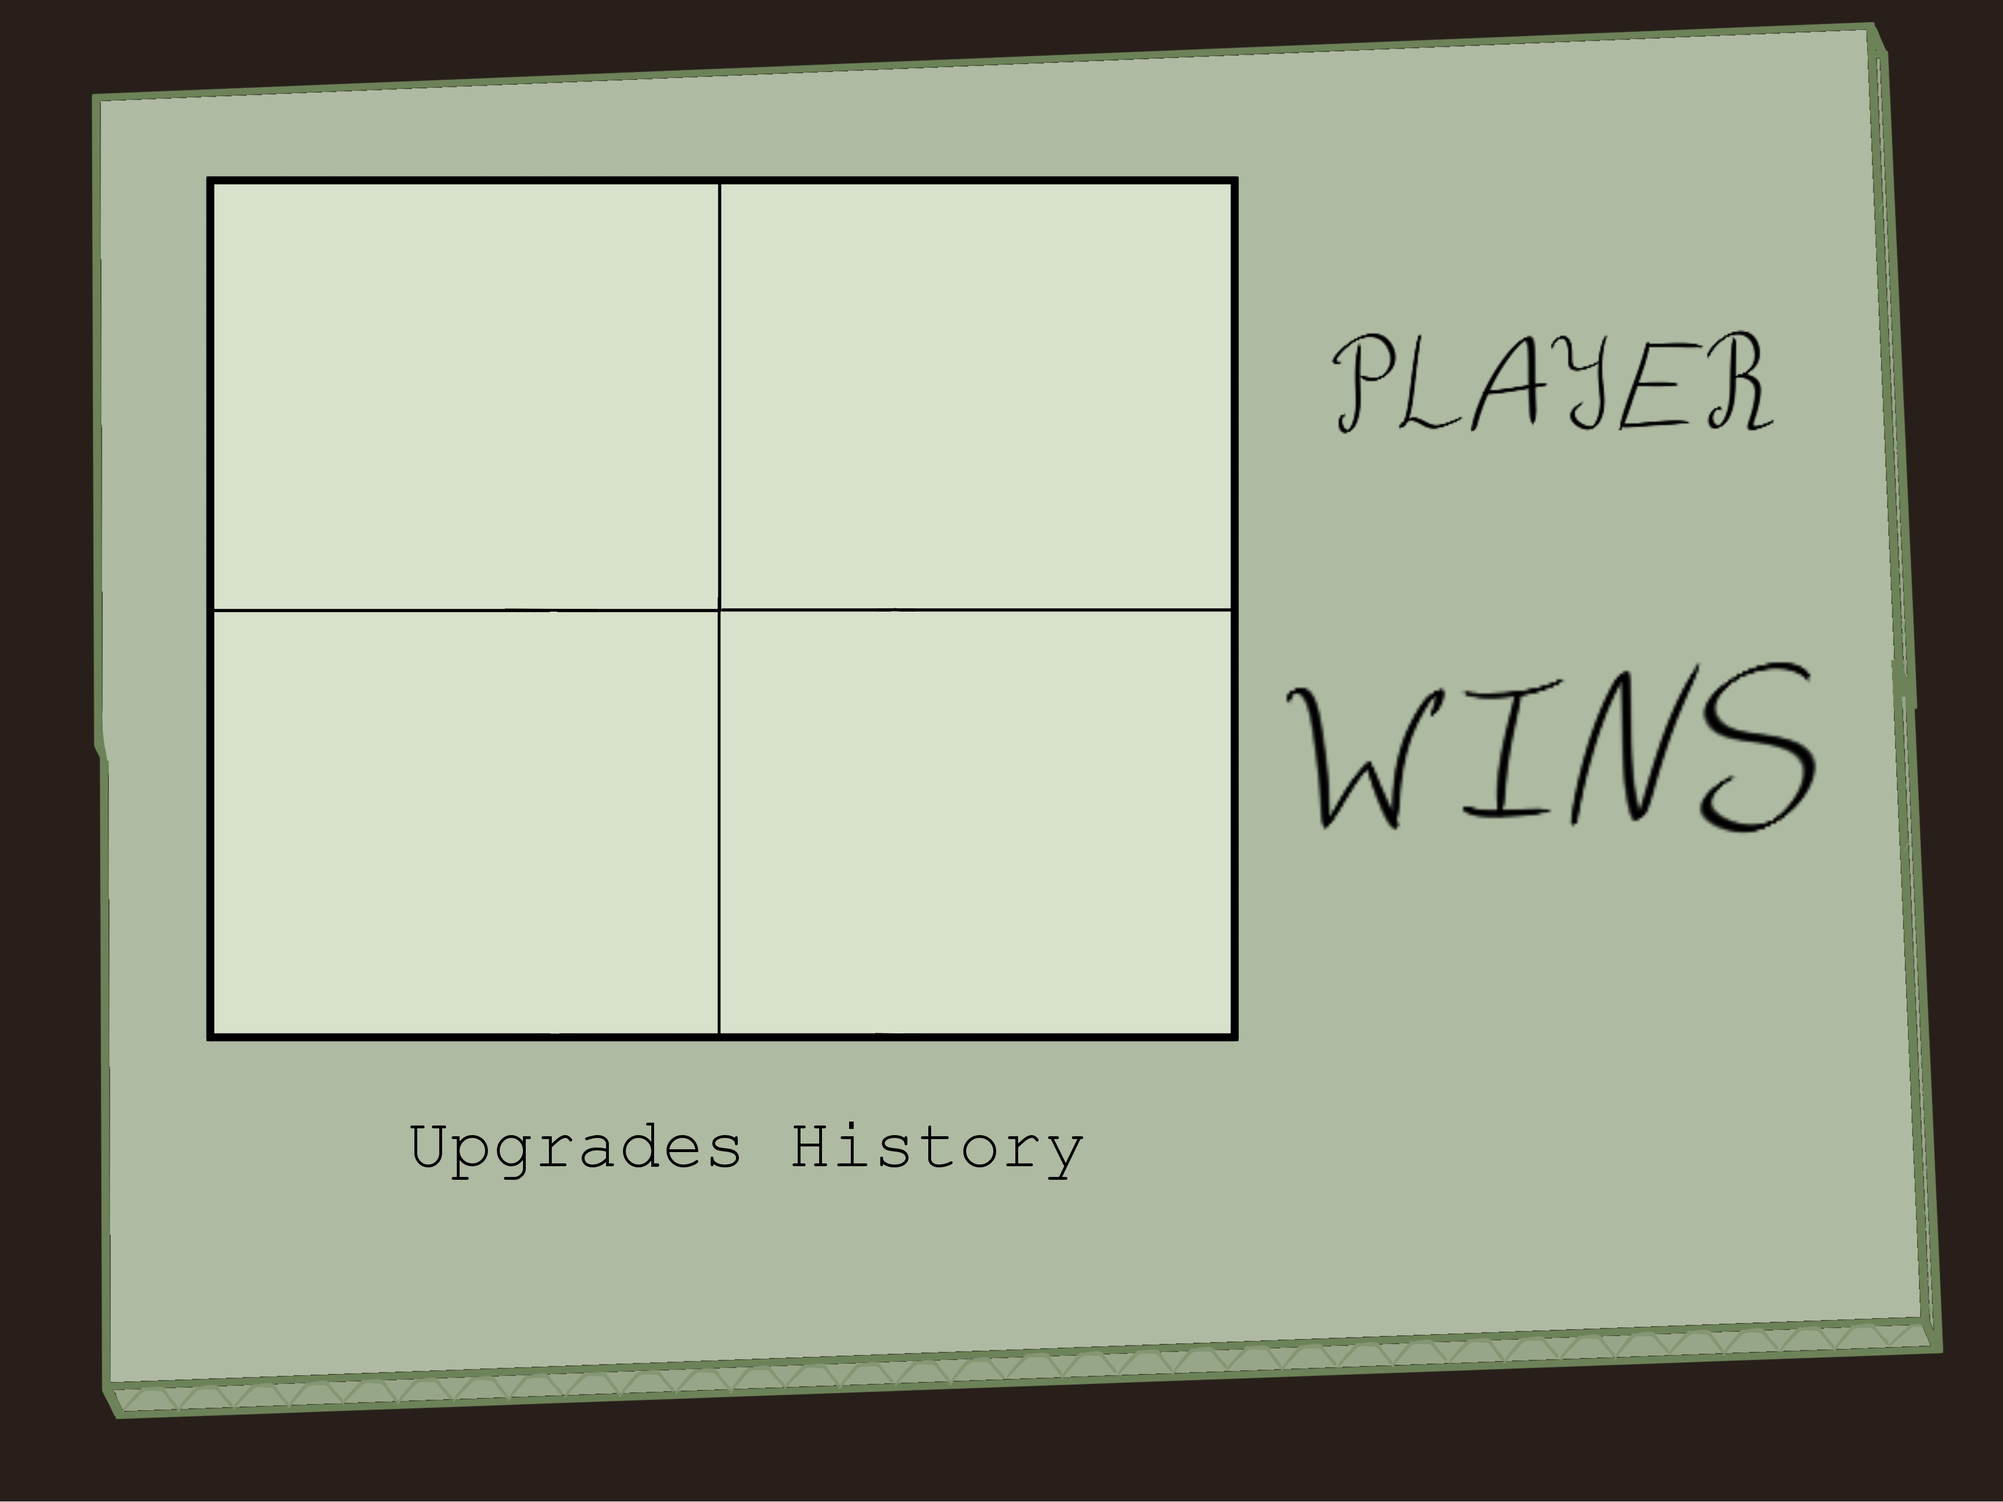
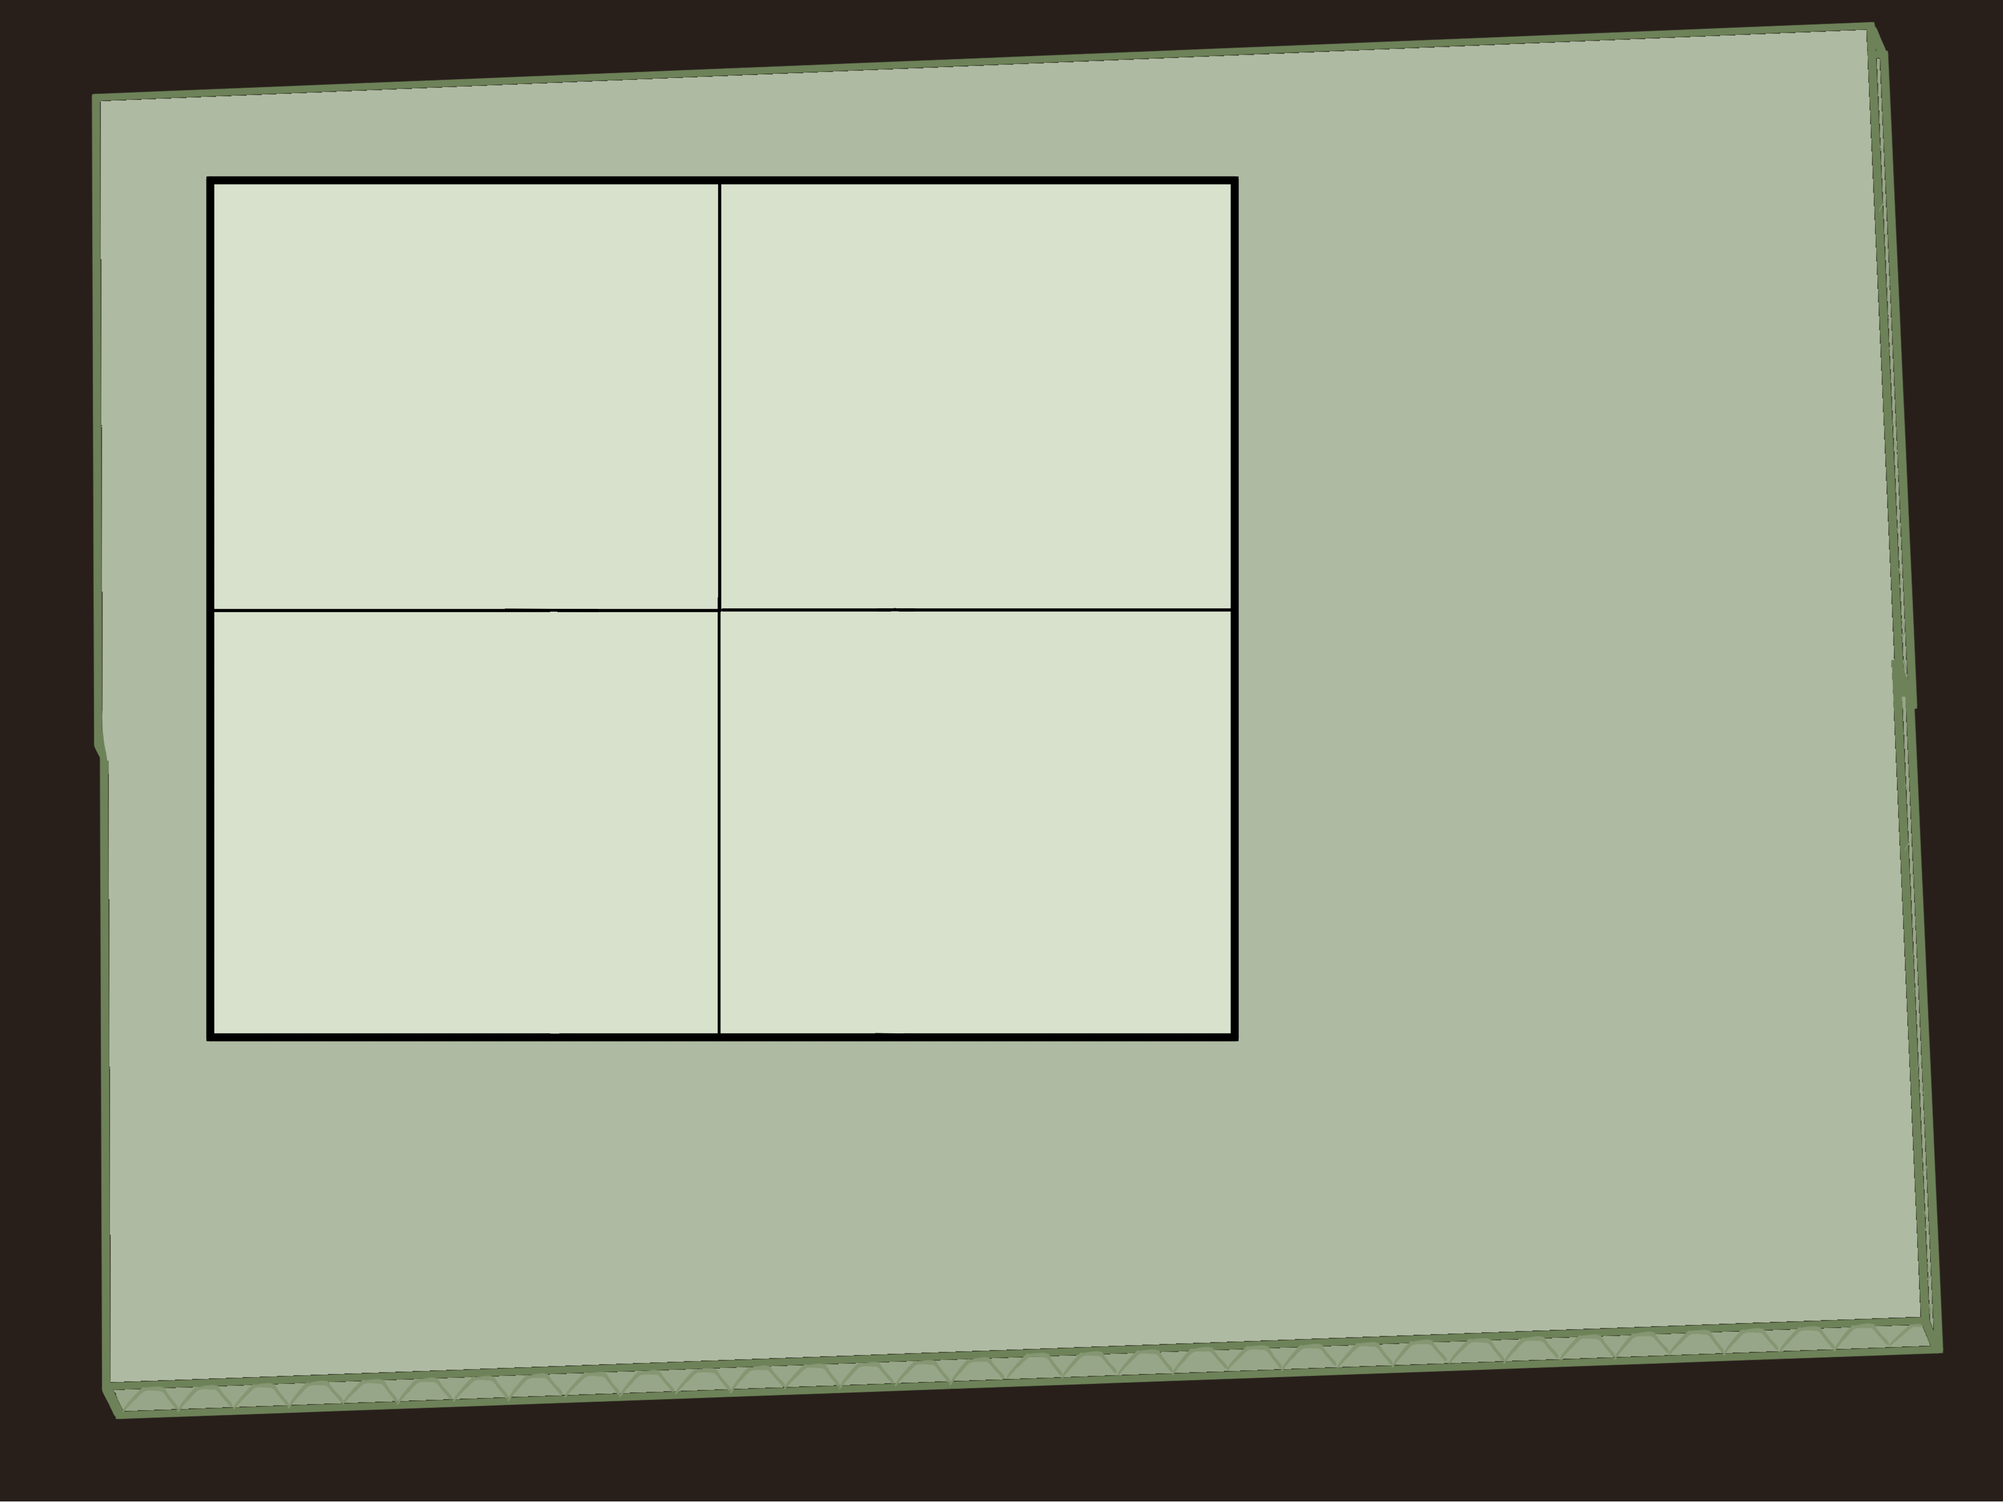
Euskera, tutorial, credits, victory changed

diff --git a/hanabi_tanks/src/main/resources/static/javaScript/Scenes/Victory.js b/hanabi_tanks/src/main/resources/static/javaScript/Scenes/Victory.js
@@ -1,5 +1,54 @@
 class Victory extends Phaser.Scene
 {
+    textsScale =
+    {
+        "BackButton": 0.32,
+        "PlayerText": 0.8,
+        "HistoryText": 0.8
+    }
+    
+    texts = 
+    {
+        "BackButton":
+        { 
+            pos: { x: 0.17, y: 0.94 },
+            center: { x: 0, y: 0.5 },
+            rotation: Phaser.Math.DegToRad(0),
+            style: 
+            {
+                fontFamily: font,
+                fontSize: String(WINDOW.HEIGHT * this.textsScale["BackButton"] / textDivider) + "px",
+                //fontStyle: styleOptions.fontStyle.bold,
+                color: blackColor
+            } 
+        },
+        "PlayerText":
+        { 
+            pos: { x: 0.2, y: 0.35 },
+            center: { x: 0, y: 0.5 },
+            rotation: Phaser.Math.DegToRad(0),
+            style: 
+            {
+                fontFamily: font,
+                fontSize: String(WINDOW.HEIGHT * this.textsScale["PlayerText"] / textDivider) + "px",
+                //fontStyle: styleOptions.fontStyle.bold,
+                color: blackColor
+            } 
+        },
+        "HistoryText":
+        { 
+            pos: { x: 0.3, y: 0.8 },
+            center: { x: 0.5, y: 0.5 },
+            rotation: Phaser.Math.DegToRad(0),
+            style: 
+            {
+                fontFamily: font,
+                fontSize: String(WINDOW.HEIGHT * this.textsScale["HistoryText"] / textDivider) + "px",
+                //fontStyle: styleOptions.fontStyle.bold,
+                color: blackColor
+            } 
+        }
+    }
     constructor() 
     {
         super({ key: 'Victory' });
@@ -26,22 +75,44 @@ class Victory extends Phaser.Scene
     {
         WebFont.load({
             custom: {
-              families: ['FontChild'], 
-              urls: ['../../css/styles.css']
+                families: ['FontChild'], 
+                urls: ['../../css/styles.css']
             },
             active: () => {
-              console.log("Font Loaded");
+                console.log("Font Loaded");
+                this.textsGroup = {};
+                Object.keys(this.texts).forEach((key) =>
+                {
+                    this.textsGroup[key] = this.add.text(this.texts[key].pos.x * WINDOW.WIDHT, this.texts[key].pos.y * WINDOW.HEIGHT, LanguageManager.getInstance().getText("Credits", key), this.texts[key].style);
+                    this.textsGroup[key].setOrigin(this.texts[key].center.x, this.texts[key].center.y);
+                    this.textsGroup[key].rotation = this.texts[key].rotation;
+                    //Scaler.ScaleToGameW(this.textsGroup[key], texts[key].scale / 7.0)
+                });
+                LanguageManager.getInstance().onLanguageChanged("Victory", () =>
+                {
+                    Object.keys(this.textsGroup).forEach((key) =>
+                    {
+                        this.textsGroup[key].text = LanguageManager.getInstance().getText("Victory", key);
+                    });
+                });
+    
+                this.events.once("shutdown", () =>
+                {
+                    LanguageManager.getInstance().desubscribe("Victory");
+                });
             }
-          });
+        });
           
         AudioManager.Instance.SetActiveScene(this, false);
 
         const victory = this.add.image(WINDOW.WIDHT/2, WINDOW.HEIGHT/2, "VictoryBackground");
         Scaler.ScaleToGameH(victory);
 
-        const back = this.add.image(WINDOW.WIDHT/6, (WINDOW.HEIGHT * 14)/15, "BackButton");
-        Scaler.ScaleToGameW(back, 0.32);
-        back.setInteractive().on("pointerdown", this.OnClickOnButton.bind(this, back))
+        const back = this.add.image(this.texts["BackButton"].pos.x * WINDOW.WIDHT, this.texts["BackButton"].pos.y * WINDOW.HEIGHT, "BackButton")
+        Scaler.ScaleToGameW(back, this.textsScale["BackButton"]);
+        back.setInteractive().on("pointerdown", this.OnClickOnButton.bind(this, back));
+        back.setInteractive().on("pointerover", this.OnPointerEnter.bind(this));
+        back.setInteractive().on("pointerout", this.OnPointerExit.bind(this));
         
         this.input.keyboard.on("keydown", this.OnKeyPressed.bind(this));
         
@@ -81,6 +152,18 @@ class Victory extends Phaser.Scene
             return;
         let powerUp4 = this.add.sprite(WINDOW.WIDHT * 0.48546, WINDOW.HEIGHT * 0.54949, "PowerUps", powerUps[3]);
         Scaler.ScaleToGameH(powerUp4, 0.12043*2.8);
+    }
+
+    OnPointerEnter()
+    {
+        console.log("Pointer Enter");
+        AudioManager.Instance.PlayOneShoot("EnterButton", "SFX");
+    }
+
+    OnPointerExit()
+    {
+        console.log("Pointer Exit");
+        AudioManager.Instance.PlayOneShoot("ExitButton", "SFX");
     }
 
     OnKeyPressed(key)

diff --git a/hanabi_tanks/src/main/resources/static/javaScript/Scenes/Tutorial.js b/hanabi_tanks/src/main/resources/static/javaScript/Scenes/Tutorial.js
@@ -1,0 +1,138 @@
+class Tutorial extends Phaser.Scene
+{
+    textsScale =
+    {
+        "BackButton": 0.32
+    }
+    
+    texts = 
+    {
+        "BackButton":
+        { 
+            pos: { x: 0.17, y: 0.94 },
+            center: { x: 0.5, y: 0.5 },
+            rotation: Phaser.Math.DegToRad(0),
+            style: 
+            {
+                fontFamily: font,
+                fontSize: String(WINDOW.HEIGHT * this.textsScale["BackButton"] / textDivider) + "px",
+                //fontStyle: styleOptions.fontStyle.bold,
+                color: blackColor
+            } 
+        }
+    }
+    constructor() 
+    {
+        super({ key: 'Tutorial' });
+        this.lastScene;
+    }
+
+    init(data)
+    {
+        this.lastScene = data.scene;
+    }
+
+    preload() 
+    {
+        this.load.script("webfont", "https://cdnjs.cloudflare.com/ajax/libs/webfont/1.6.28/webfontloader.js");
+
+        this.load.image("TutorialBackground", "../assets/UI/Screens/template.png");
+        this.load.image("MainMenuButton", "../assets/UI/Buttons/mainMenu.png")
+    }
+
+    create() 
+    {
+        WebFont.load({
+            custom: {
+                families: ['FontChild'], 
+                urls: ['../../css/styles.css']
+            },
+            active: () => {
+                console.log("Font Loaded");
+                this.textsGroup = {};
+                Object.keys(this.texts).forEach((key) =>
+                {
+                    this.textsGroup[key] = this.add.text(this.texts[key].pos.x * WINDOW.WIDHT, this.texts[key].pos.y * WINDOW.HEIGHT, LanguageManager.getInstance().getText("Credits", key), this.texts[key].style);
+                    this.textsGroup[key].setOrigin(this.texts[key].center.x, this.texts[key].center.y);
+                    this.textsGroup[key].rotation = this.texts[key].rotation;
+                    //Scaler.ScaleToGameW(this.textsGroup[key], texts[key].scale / 7.0)
+                });
+                LanguageManager.getInstance().onLanguageChanged("Tutorial", () =>
+                {
+                    Object.keys(this.textsGroup).forEach((key) =>
+                    {
+                        this.textsGroup[key].text = LanguageManager.getInstance().getText("Tutorial", key);
+                    });
+                });
+    
+                this.events.once("shutdown", () =>
+                {
+                    LanguageManager.getInstance().desubscribe("Tutorial");
+                });
+            }
+        });
+          
+        AudioManager.Instance.SetActiveScene(this, false);
+
+        const background = this.add.image(WINDOW.WIDHT/2, WINDOW.HEIGHT/2, "TutorialBackground");
+        Scaler.ScaleToGameW(background);
+
+        const back = this.add.image(this.texts["BackButton"].pos.x * WINDOW.WIDHT, this.texts["BackButton"].pos.y * WINDOW.HEIGHT, "BackButton");
+        Scaler.ScaleToGameW(back, this.textsScale["BackButton"]);
+        back.setInteractive().on("pointerdown", this.OnClickOnButton.bind(this, back));
+        back.setInteractive().on("pointerover", this.OnPointerEnter.bind(this));
+        back.setInteractive().on("pointerout", this.OnPointerExit.bind(this));
+
+        this.input.keyboard.on("keydown", this.OnKeyPressed.bind(this));
+    }
+
+    OnPointerEnter()
+    {
+        console.log("Pointer Enter");
+        AudioManager.Instance.PlayOneShoot("EnterButton", "SFX");
+    }
+
+    OnPointerExit()
+    {
+        console.log("Pointer Exit");
+        AudioManager.Instance.PlayOneShoot("ExitButton", "SFX");
+    }
+
+    OnKeyPressed(key)
+    {
+        switch(key.keyCode)
+        {
+            case Phaser.Input.Keyboard.KeyCodes.ESC:
+                AudioManager.Instance.PlayOneShoot("ChangeMenu", "SFX");
+                this.scene.stop("Tutorial");
+                this.scene.start("MainMenu");
+                break;
+            default:
+                console.log("ERROR_UNKNOWN_KEY_PRESSED: " + key.keyCode);
+                break;
+        }
+    }
+
+    OnClickOnButton(button)
+    {
+        console.log("boton pulsado = " + button.texture.key + " " + this.lastScene);
+        
+        switch(button.texture.key)
+        {
+            case "BackButton":
+                AudioManager.Instance.PlayOneShoot("ChangeMenu", "SFX");
+                this.scene.stop("Tutorial");
+                this.scene.start("MainMenu");
+                break;            
+            default:
+                console.log("ERROR_IN_CLICK_BUTTON: UNKNOWN_BUTTON_KEY: " + button.texture.key);
+                break;
+        }
+    }
+
+    update() 
+    {
+
+    }
+
+}

diff --git a/hanabi_tanks/src/main/resources/static/javaScript/Scenes/Pause.js b/hanabi_tanks/src/main/resources/static/javaScript/Scenes/Pause.js
@@ -1,5 +1,52 @@
 class Pause extends Phaser.Scene
 {
+    textsScale = 
+    {
+        "BackButton": 0.32,
+        "OptionsButton": 0.32,
+        "MainMenuButton": 0.32,
+        
+    }
+
+    texts = {
+        "BackButton":
+        {
+            pos: { x: 0.17, y: 0.94 },
+            center: { x: 0.5, y: 0.5 },
+            rotation: Phaser.Math.DegToRad(0),
+            style: 
+            {
+                fontFamily: font,
+                fontSize: String(WINDOW.HEIGHT * this.textsScale["BackButton"] / textDivider) + "px",                
+                color: blackColor
+            } 
+        },
+        "OptionsButton":
+        {
+            pos: { x: 0.5, y: 0.5 },
+            center: { x: 0.5, y: 0.5 },
+            rotation: Phaser.Math.DegToRad(0),
+            style: 
+            {
+                fontFamily: font,
+                fontSize: String(WINDOW.HEIGHT * this.textsScale["OptionsButton"] / textDivider) + "px",                
+                color: blackColor
+            } 
+        },
+        "MainMenuButton":
+        {
+            pos: { x: 0.5, y: 0.7 },
+            center: { x: 0.5, y: 0.5 },
+            rotation: Phaser.Math.DegToRad(0),
+            style: 
+            {
+                fontFamily: font,
+                fontSize: String(WINDOW.HEIGHT * this.textsScale["MainMenuButton"] / textDivider) + "px",                
+                color: blackColor
+            } 
+        }
+               
+    }
     constructor() 
     {
         super({ key: 'Pause' });
@@ -16,7 +63,7 @@ class Pause extends Phaser.Scene
         this.load.script("webfont", "https://cdnjs.cloudflare.com/ajax/libs/webfont/1.6.28/webfontloader.js");
 
         this.load.image("PauseBackground", "../assets/UI/Screens/bgPauseTranparent.png");
-        this.load.image("MainMenuButton", "../assets/UI/Buttons/mainMenu.png")
+        this.load.image("MainMenuButton", "../assets/UI/Buttons/mainMenu.png");
     }
 
     create() 
@@ -37,21 +84,21 @@ class Pause extends Phaser.Scene
         const background = this.add.image(WINDOW.WIDHT/2, WINDOW.HEIGHT/2, "PauseBackground");
         Scaler.ScaleToGameW(background);
 
-        const back = this.add.image(WINDOW.WIDHT/6, (WINDOW.HEIGHT * 14)/15, "BackButton")
-        Scaler.ScaleToGameW(back, 0.32);
+        const back = this.add.image(this.texts["BackButton"].pos.x * WINDOW.WIDHT, this.texts["BackButton"].pos.y * WINDOW.HEIGHT, "BackButton");
+        Scaler.ScaleToGameW(back, this.textsScale["BackButton"]);
         back.setInteractive().on("pointerdown", this.OnClickOnButton.bind(this, back));
         back.setInteractive().on("pointerover", this.OnPointerEnter.bind(this));
         back.setInteractive().on("pointerout", this.OnPointerExit.bind(this));
 
-        const options = this.add.image((WINDOW.WIDHT) / 2, (WINDOW.HEIGHT) / 2, "OptionsButton");
-        Scaler.ScaleToGameW(options, 0.32);
+        const options = this.add.image(this.texts["OptionsButton"].pos.x * WINDOW.WIDHT, this.texts["OptionsButton"].pos.y * WINDOW.HEIGHT, "OptionsButton");
+        Scaler.ScaleToGameW(options, this.textsScale["OptionsButton"]);
         options.setInteractive().on("pointerdown", this.OnClickOnButton.bind(this, options));
         options.setInteractive().on("pointerover", this.OnPointerEnter.bind(this));
         options.setInteractive().on("pointerout", this.OnPointerExit.bind(this));
         
         
-        const mainMenu = this.add.image((WINDOW.WIDHT) / 2, (WINDOW.HEIGHT * 2) / 3, "MainMenuButton");
-        Scaler.ScaleToGameW(mainMenu, 0.32);
+        const mainMenu = this.add.image(this.texts["MainMenuButton"].pos.x * WINDOW.WIDHT, this.texts["MainMenuButton"].pos.y * WINDOW.HEIGHT, "MainMenuButton");
+        Scaler.ScaleToGameW(mainMenu, this.textsScale["MainMenuButton"]);
         mainMenu.setInteractive().on("pointerdown", this.OnClickOnButton.bind(this, mainMenu));
         mainMenu.setInteractive().on("pointerover", this.OnPointerEnter.bind(this));
         mainMenu.setInteractive().on("pointerout", this.OnPointerExit.bind(this));

diff --git a/hanabi_tanks/src/main/resources/static/javaScript/Scenes/MainMenu.js b/hanabi_tanks/src/main/resources/static/javaScript/Scenes/MainMenu.js
@@ -100,6 +100,7 @@ class MainMenu extends Phaser.Scene
         {
             this.load.pack("localization_en", "../assets/localization/english.json");
             this.load.pack("localization_es", "../assets/localization/espanol.json")
+            this.load.pack("localization_eu", "../assets/localization/euskera.json")
         }
         this.load.image("MainMenuBackground", "../assets/UI/Screens/mainMenu.png")
         this.load.script("webfont", "https://cdnjs.cloudflare.com/ajax/libs/webfont/1.6.28/webfontloader.js");
@@ -131,9 +132,11 @@ class MainMenu extends Phaser.Scene
                 {
                     const enData = this.cache.json.get("localization_en");      
                     const esData = this.cache.json.get("localization_es");
+                    const euData = this.cache.json.get("localization_eu");
                     
                     LanguageManager.getInstance().loadLanguage("english", enData);
                     LanguageManager.getInstance().loadLanguage("español", esData);
+                    LanguageManager.getInstance().loadLanguage("euskera", euData);
             
                     this.textsGroup = {};
                     // Ejemplo de crear textos

diff --git a/hanabi_tanks/src/main/resources/static/javaScript/main.js b/hanabi_tanks/src/main/resources/static/javaScript/main.js
@@ -29,7 +29,7 @@ const config = {
             gravity: { y: 0 }
         }
     },
-    scene: [Login, UserScene, MainMenu, Credits, Victory, PowerUp, Level1, Level2, Level3, Level4, Level5, Level6, SecretLevel, ChatChill, Pause, Options]
+    scene: [Login, UserScene, MainMenu, Tutorial, Credits, Victory, PowerUp, Level1, Level2, Level3, Level4, Level5, Level6, SecretLevel, ChatChill, Pause, Options]
 };
 
 const audioManager = new AudioManager();

diff --git a/hanabi_tanks/src/main/resources/static/html/Main.html b/hanabi_tanks/src/main/resources/static/html/Main.html
@@ -21,6 +21,7 @@
 		<script src="../javaScript/Scenes/Options.js"></script>
 		<script src="../javaScript/Scenes/ChatChill.js"></script>
 		<script src="../javaScript/Scenes/Victory.js"></script>
+		<script src="../javaScript/Scenes/Tutorial.js"></script>
 		<script src="../javaScript/Levels/Level.js"></script>
 		<script src="../javaScript/Levels/Level1.js"></script>
 		<script src="../javaScript/Levels/Level2.js"></script>
